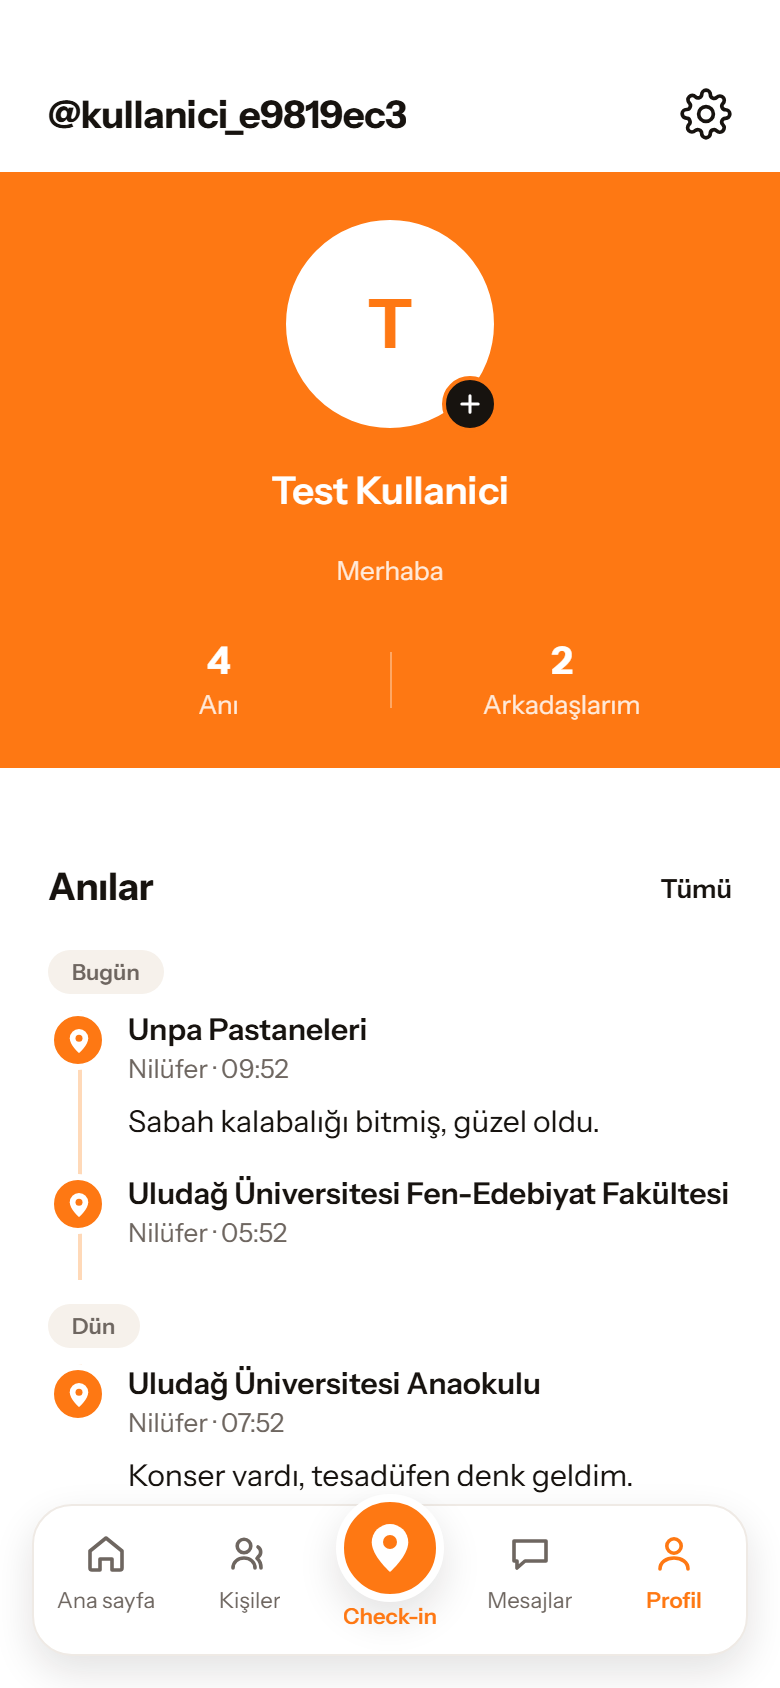
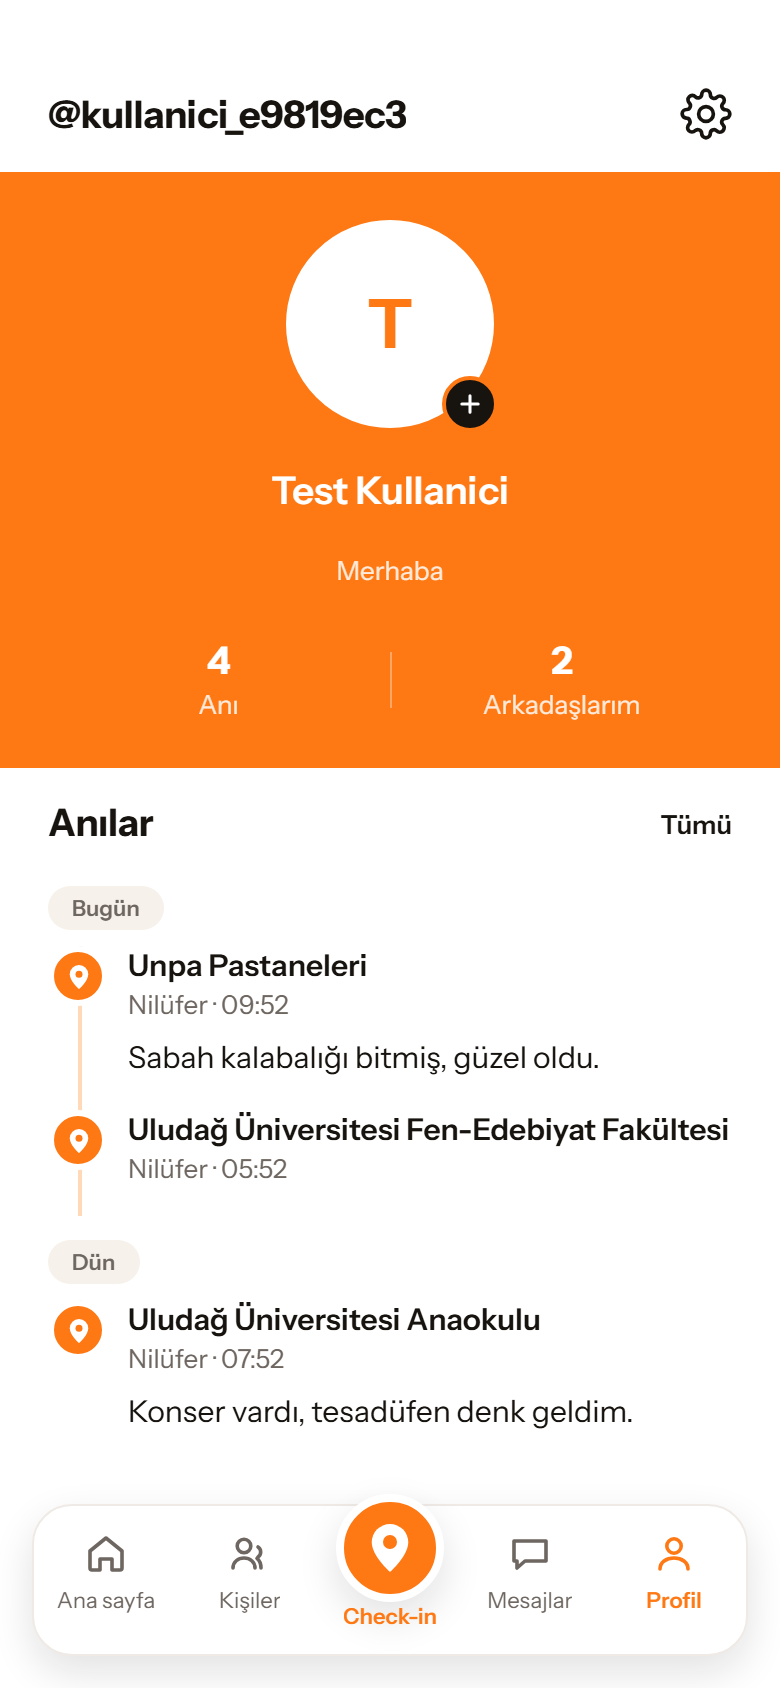
fix(profil): turuncu band ile "Anilar" arasindaki bosluk daraltildi
Kullanicinin istegi: "Daralt". Band ile bolum basligi arasi 48 px'ti
(band alt payi 16 + baslik ust payi 32); 16 px'e indi.

AYRICA BIR ORTAM TUZAGI KAYIT ALTINA ALINDI: `eas deploy --prod`
basariyla donduktan hemen sonra adres BIR ONCEKI surumu servis
edebiliyor. Ilk yayindan sonra olctum, degerler eski cikti; paketi
sildim, `--clear` ile yeniden urettim, hash DEGISMEDI (yani export
zaten dogruydu) ve yeniden yayinlayinca degerler dogru geldi.

Bu, daha once "expo export eski onbellegi kullanmis" diye yanlis
teshis ettigim durumun asil sebebi. CLAUDE.md'ye kural olarak yazildi:
ekran goruntusu eskiyi gosteriyorsa once YENIDEN YAYINLA.

Olcum yontemi de not edildi: gozle karsilastirmak yerine puppeteer ile
getBoundingClientRect/getComputedStyle dokumek kesin sonuc veriyor.

Claude-Session: https://claude.ai/code/session_01RPADX9vz5pGDstg48GDVRa

Changed region(s): [[0.0615, 0.4621, 0.9231, 0.8934], [0.8615, 0.5237, 0.9231, 0.5545], [0.8615, 0.4621, 0.9231, 0.4929]]

diff --git a/mobil/src/app/profil/index.tsx b/mobil/src/app/profil/index.tsx
@@ -494,7 +494,11 @@ const stiller = StyleSheet.create({
     paddingHorizontal: bosluk.xl,
     paddingTop: bosluk.xl,
     paddingBottom: bosluk.l,
-    marginBottom: bosluk.l,
+    // Bandin altindaki bosluk DARALTILDI (kullanicinin istegi
+    // 2026-08-28): band ile "Anilar" arasinda genis bir beyaz aralik
+    // kaliyordu. Alt pay bolum basliginin kendi ust payiyla toplaniyor,
+    // bu yuzden buradan tamamen kaldirildi.
+    marginBottom: 0,
   },
   avatarBasilir: { marginBottom: bosluk.xs },
   fotografRozeti: {
@@ -635,7 +639,8 @@ const stiller = StyleSheet.create({
     flexDirection: 'row',
     alignItems: 'center',
     justifyContent: 'space-between',
-    marginTop: bosluk.xxl,
+    // xxl -> l: turuncu band gelince aradaki bosluk fazla kaciyordu.
+    marginTop: bosluk.l,
     marginBottom: bosluk.s,
   },
   bolumAd: {

diff --git a/CLAUDE.md b/CLAUDE.md
@@ -131,6 +131,34 @@ ayrintilar `docs/konusma-gunlugu.md` icinde.
   uretmek icin onay isteyebilir, o adim interaktifse kullaniciya
   birakilir.
 
+### ORTAM TUZAGI: `eas deploy` ANINDA YAYINA GECMIYOR (2026-08-28)
+
+Iki kez yasandi ve ikincisinde OLCULEREK dogrulandi. `eas deploy --prod`
+komutu "Production URL" yazip basariyla donuyor, ama adresi hemen o an
+acarsan BIR ONCEKI surumu gorebiliyorsun.
+
+Belirtisi yaniltici: degisiklik yapiyorsun, testler geciyor, yayina
+aliyorsun, ekran goruntusu aliyorsun ve ESKI hali goruyorsun. Ilk
+seferinde bunu "expo export eski onbellegi kullandi" diye teshis
+ettim - **o teshis YANLISTI**. Ikinci seferinde olctum:
+
+- `dist/` icindeki paket DOGRUYDU (`grep marginTop:32` sifir sonuc,
+  yani yeni degerler pakette).
+- `--clear` ile ve `dist`/`.expo`/`node_modules/.cache` tamamen
+  silinerek yeniden uretilen paketin **hash'i degismedi** - yani
+  export zaten dogru calisiyordu.
+- Ayni komutu tekrar `eas deploy --prod` ile yayinlayip olcunce
+  degerler dogru geldi.
+
+**KURAL: bir degisikligin yayina gectigini ekran goruntusuyle
+dogrularken, goruntu eskiyi gosteriyorsa once YENIDEN YAYINLA.**
+Metro onbellegini suclamadan once bunu dene.
+
+Olcum icin gozle bakmak yerine sayisal yontem daha guvenilir: sayfadaki
+ogelerin `getBoundingClientRect()` ve `getComputedStyle()` degerlerini
+puppeteer ile dokmek. Bosluk tartismasinda "sanki degismemis" demek
+yerine `marginTop: 32px` -> `16px` diye kesin sonuc verir.
+
 ### KARAR: mesafe siniri kalkti, check-in 1 km (2026-08-28)
 
 Kullanicinin karari: kesfet ekranindaki "1 km / 2 km / 5 km" cipleri
